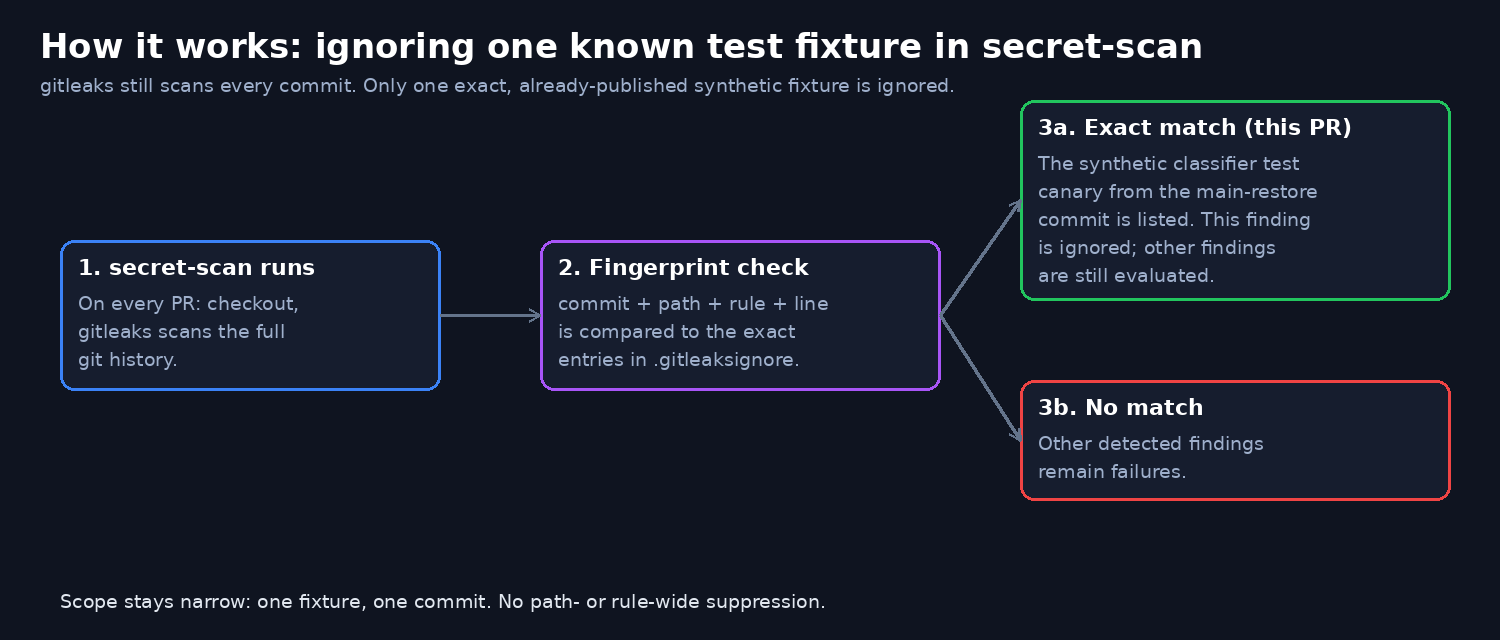
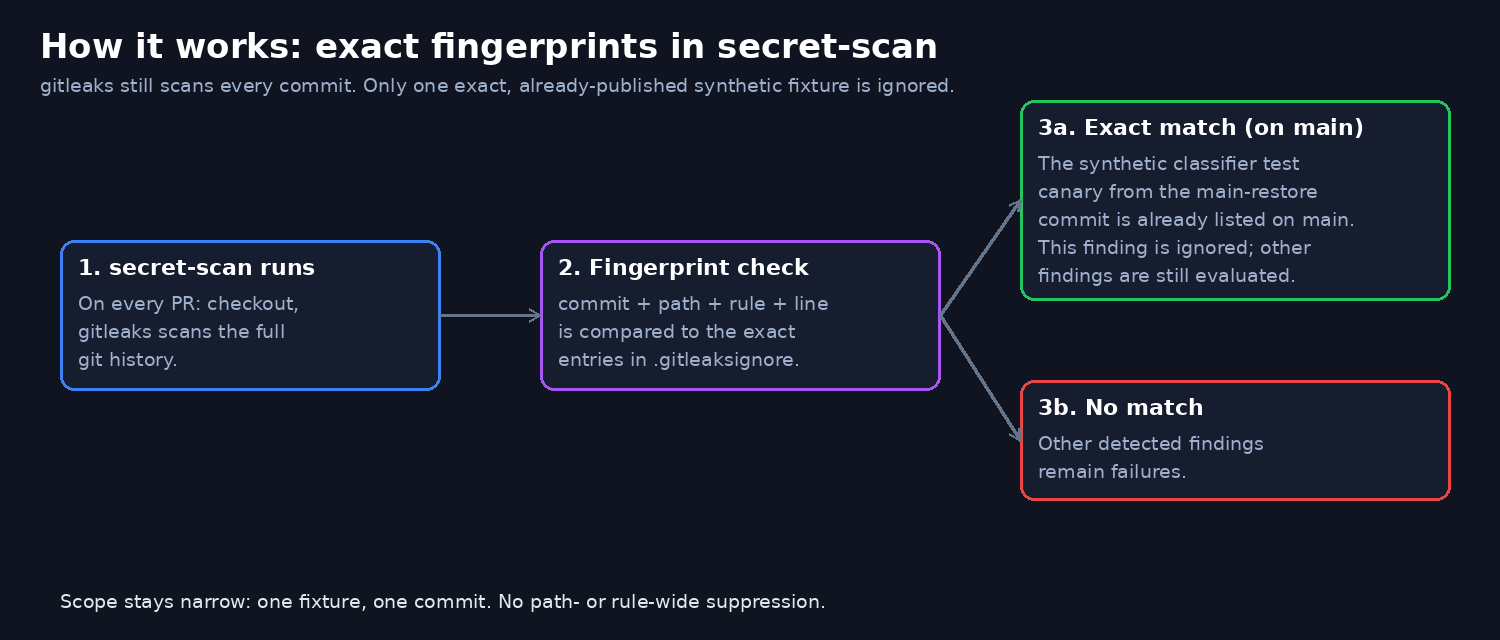
docs: correct the secret-scan diagram and make its source portable

Changed region(s): [[0.2147, 0.0312, 0.7973, 0.125], [0.6747, 0.3125, 0.8893, 0.4375], [0.828, 0.1875, 0.92, 0.2188]]

diff --git a/docs/flows/secret-scan-how-it-works.py b/docs/flows/secret-scan-how-it-works.py
@@ -1,14 +1,29 @@
 from PIL import Image, ImageDraw, ImageFont
-# Regenerates docs/assets/secret-scan-how-it-works.png. Run from the repo root: python3 docs/flows/secret-scan-how-it-works.py
-out = "docs/assets/secret-scan-how-it-works.png"
+import math
+import os
+
+# Regenerates docs/assets/secret-scan-how-it-works.png.
+# Needs Pillow (pip install pillow). Run from anywhere:
+# python3 docs/flows/secret-scan-how-it-works.py
+def font(names, size):
+    for n in names:
+        try: return ImageFont.truetype(n, size)
+        except OSError: pass
+    try: return ImageFont.load_default(size)
+    except TypeError: return ImageFont.load_default()  # Pillow < 10.1
+
+DEJAVU = "/usr/share/fonts/truetype/dejavu/"
+MAC = "/System/Library/Fonts/Supplemental/"
+REG = ["DejaVuSans.ttf", DEJAVU + "DejaVuSans.ttf", "Arial.ttf", MAC + "Arial.ttf", "C:/Windows/Fonts/arial.ttf"]
+BOLD = ["DejaVuSans-Bold.ttf", DEJAVU + "DejaVuSans-Bold.ttf", "Arial Bold.ttf", MAC + "Arial Bold.ttf", "C:/Windows/Fonts/arialbd.ttf"]
+
+out = os.path.normpath(os.path.join(os.path.dirname(os.path.abspath(__file__)), "..", "assets", "secret-scan-how-it-works.png"))
 W, H = 1500, 640
 im = Image.new("RGB", (W, H), "#0f1420")
 d = ImageDraw.Draw(im)
-F = "/usr/share/fonts/truetype/dejavu/DejaVuSans.ttf"
-FB = "/usr/share/fonts/truetype/dejavu/DejaVuSans-Bold.ttf"
-t = ImageFont.truetype(FB, 34); b = ImageFont.truetype(FB, 22); s = ImageFont.truetype(F, 19)
+t = font(BOLD, 34); b = font(BOLD, 22); s = font(REG, 19)
 G = "#9fb0cc"
-d.text((40, 26), "How it works: ignoring one known test fixture in secret-scan", font=t, fill="#ffffff")
+d.text((40, 26), "How it works: exact fingerprints in secret-scan", font=t, fill="#ffffff")
 d.text((40, 74), "gitleaks still scans every commit. Only one exact, already-published synthetic fixture is ignored.", font=s, fill=G)
 
 def box(x, y, w, h, title, lines, border="#3b82f6"):
@@ -18,7 +33,6 @@ def box(x, y, w, h, title, lines, border="#3b82f6"):
         d.text((x + 18, y + 52 + i * 28), ln, font=s, fill=G)
 
 def arrow(x1, y1, x2, y2):
-    import math
     d.line([x1, y1, x2, y2], fill="#64748b", width=3)
     ang = math.atan2(y2 - y1, x2 - x1)
     L = 12
@@ -27,7 +41,7 @@ def arrow(x1, y1, x2, y2):
 
 box(60, 240, 380, 150, "1. secret-scan runs", ["On every PR: checkout,", "gitleaks scans the full", "git history."], "#3b82f6")
 box(540, 240, 400, 150, "2. Fingerprint check", ["commit + path + rule + line", "is compared to the exact", "entries in .gitleaksignore."], "#a855f7")
-box(1020, 100, 430, 200, "3a. Exact match (this PR)", ["The synthetic classifier test", "canary from the main-restore", "commit is listed. This finding", "is ignored; other findings", "are still evaluated."], "#22c55e")
+box(1020, 100, 430, 200, "3a. Exact match (on main)", ["The synthetic classifier test", "canary from the main-restore", "commit is already listed on main.", "This finding is ignored; other", "findings are still evaluated."], "#22c55e")
 box(1020, 380, 430, 120, "3b. No match", ["Other detected findings", "remain failures."], "#ef4444")
 arrow(440, 315, 540, 315)
 arrow(940, 315, 1020, 200)
